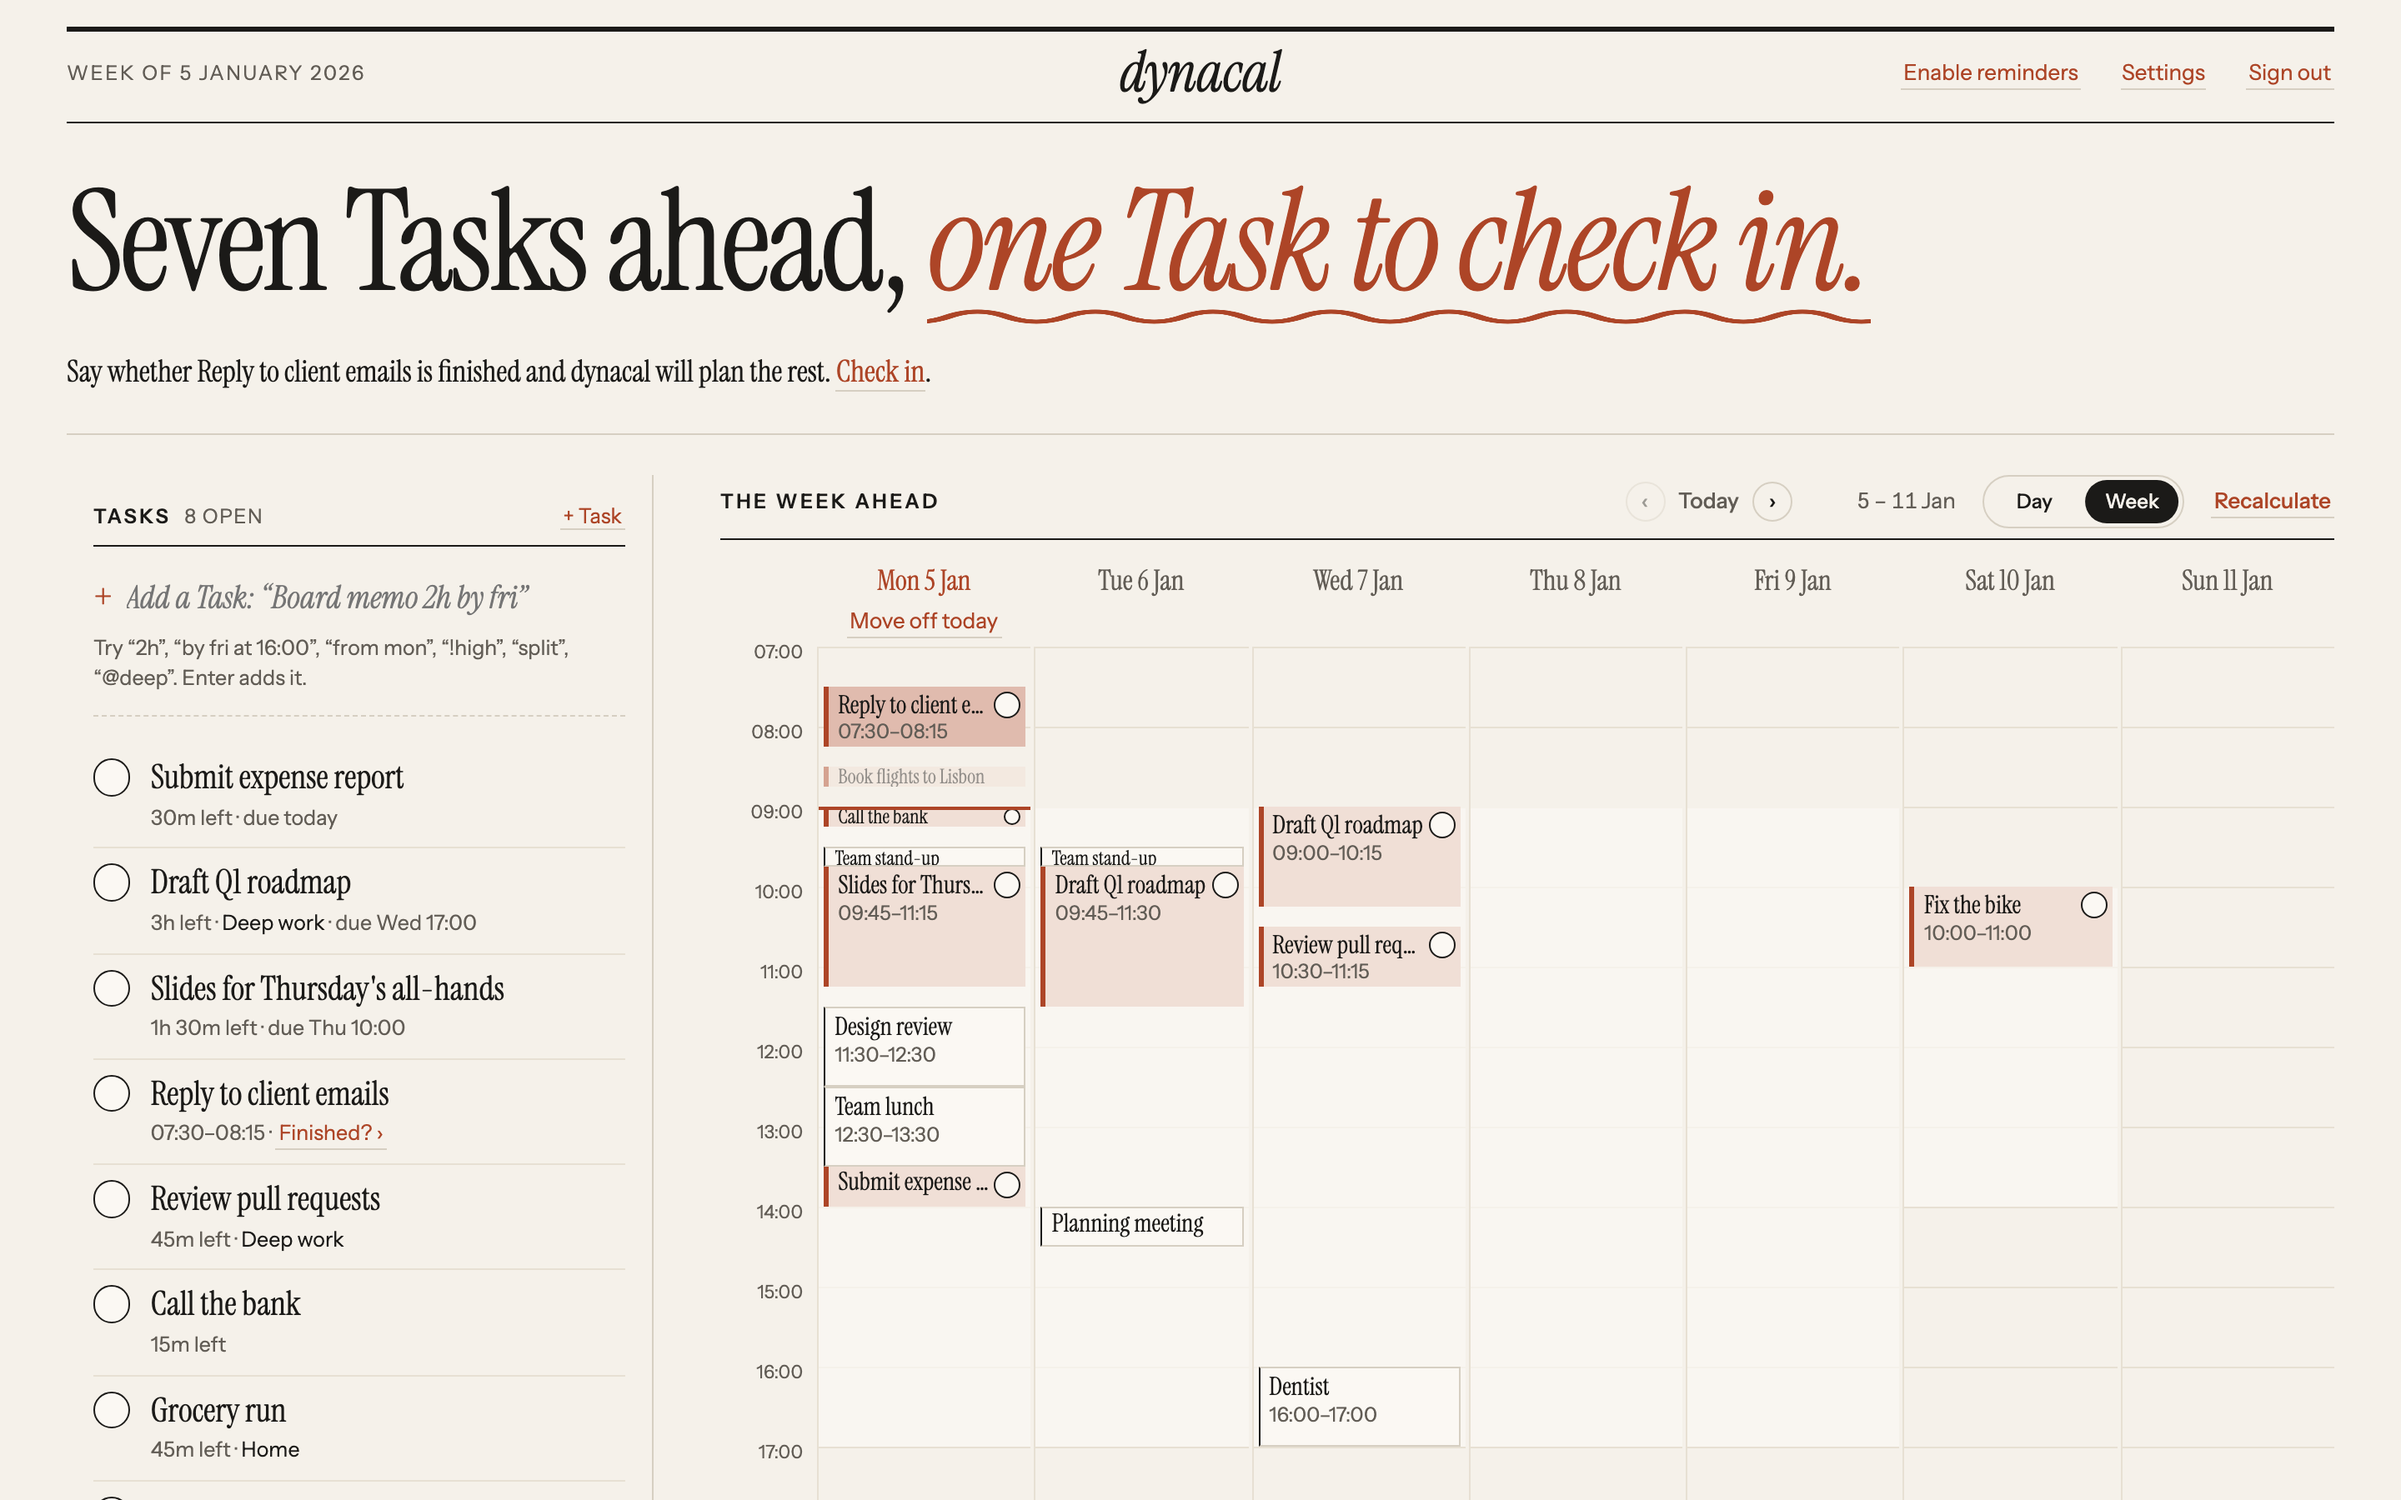
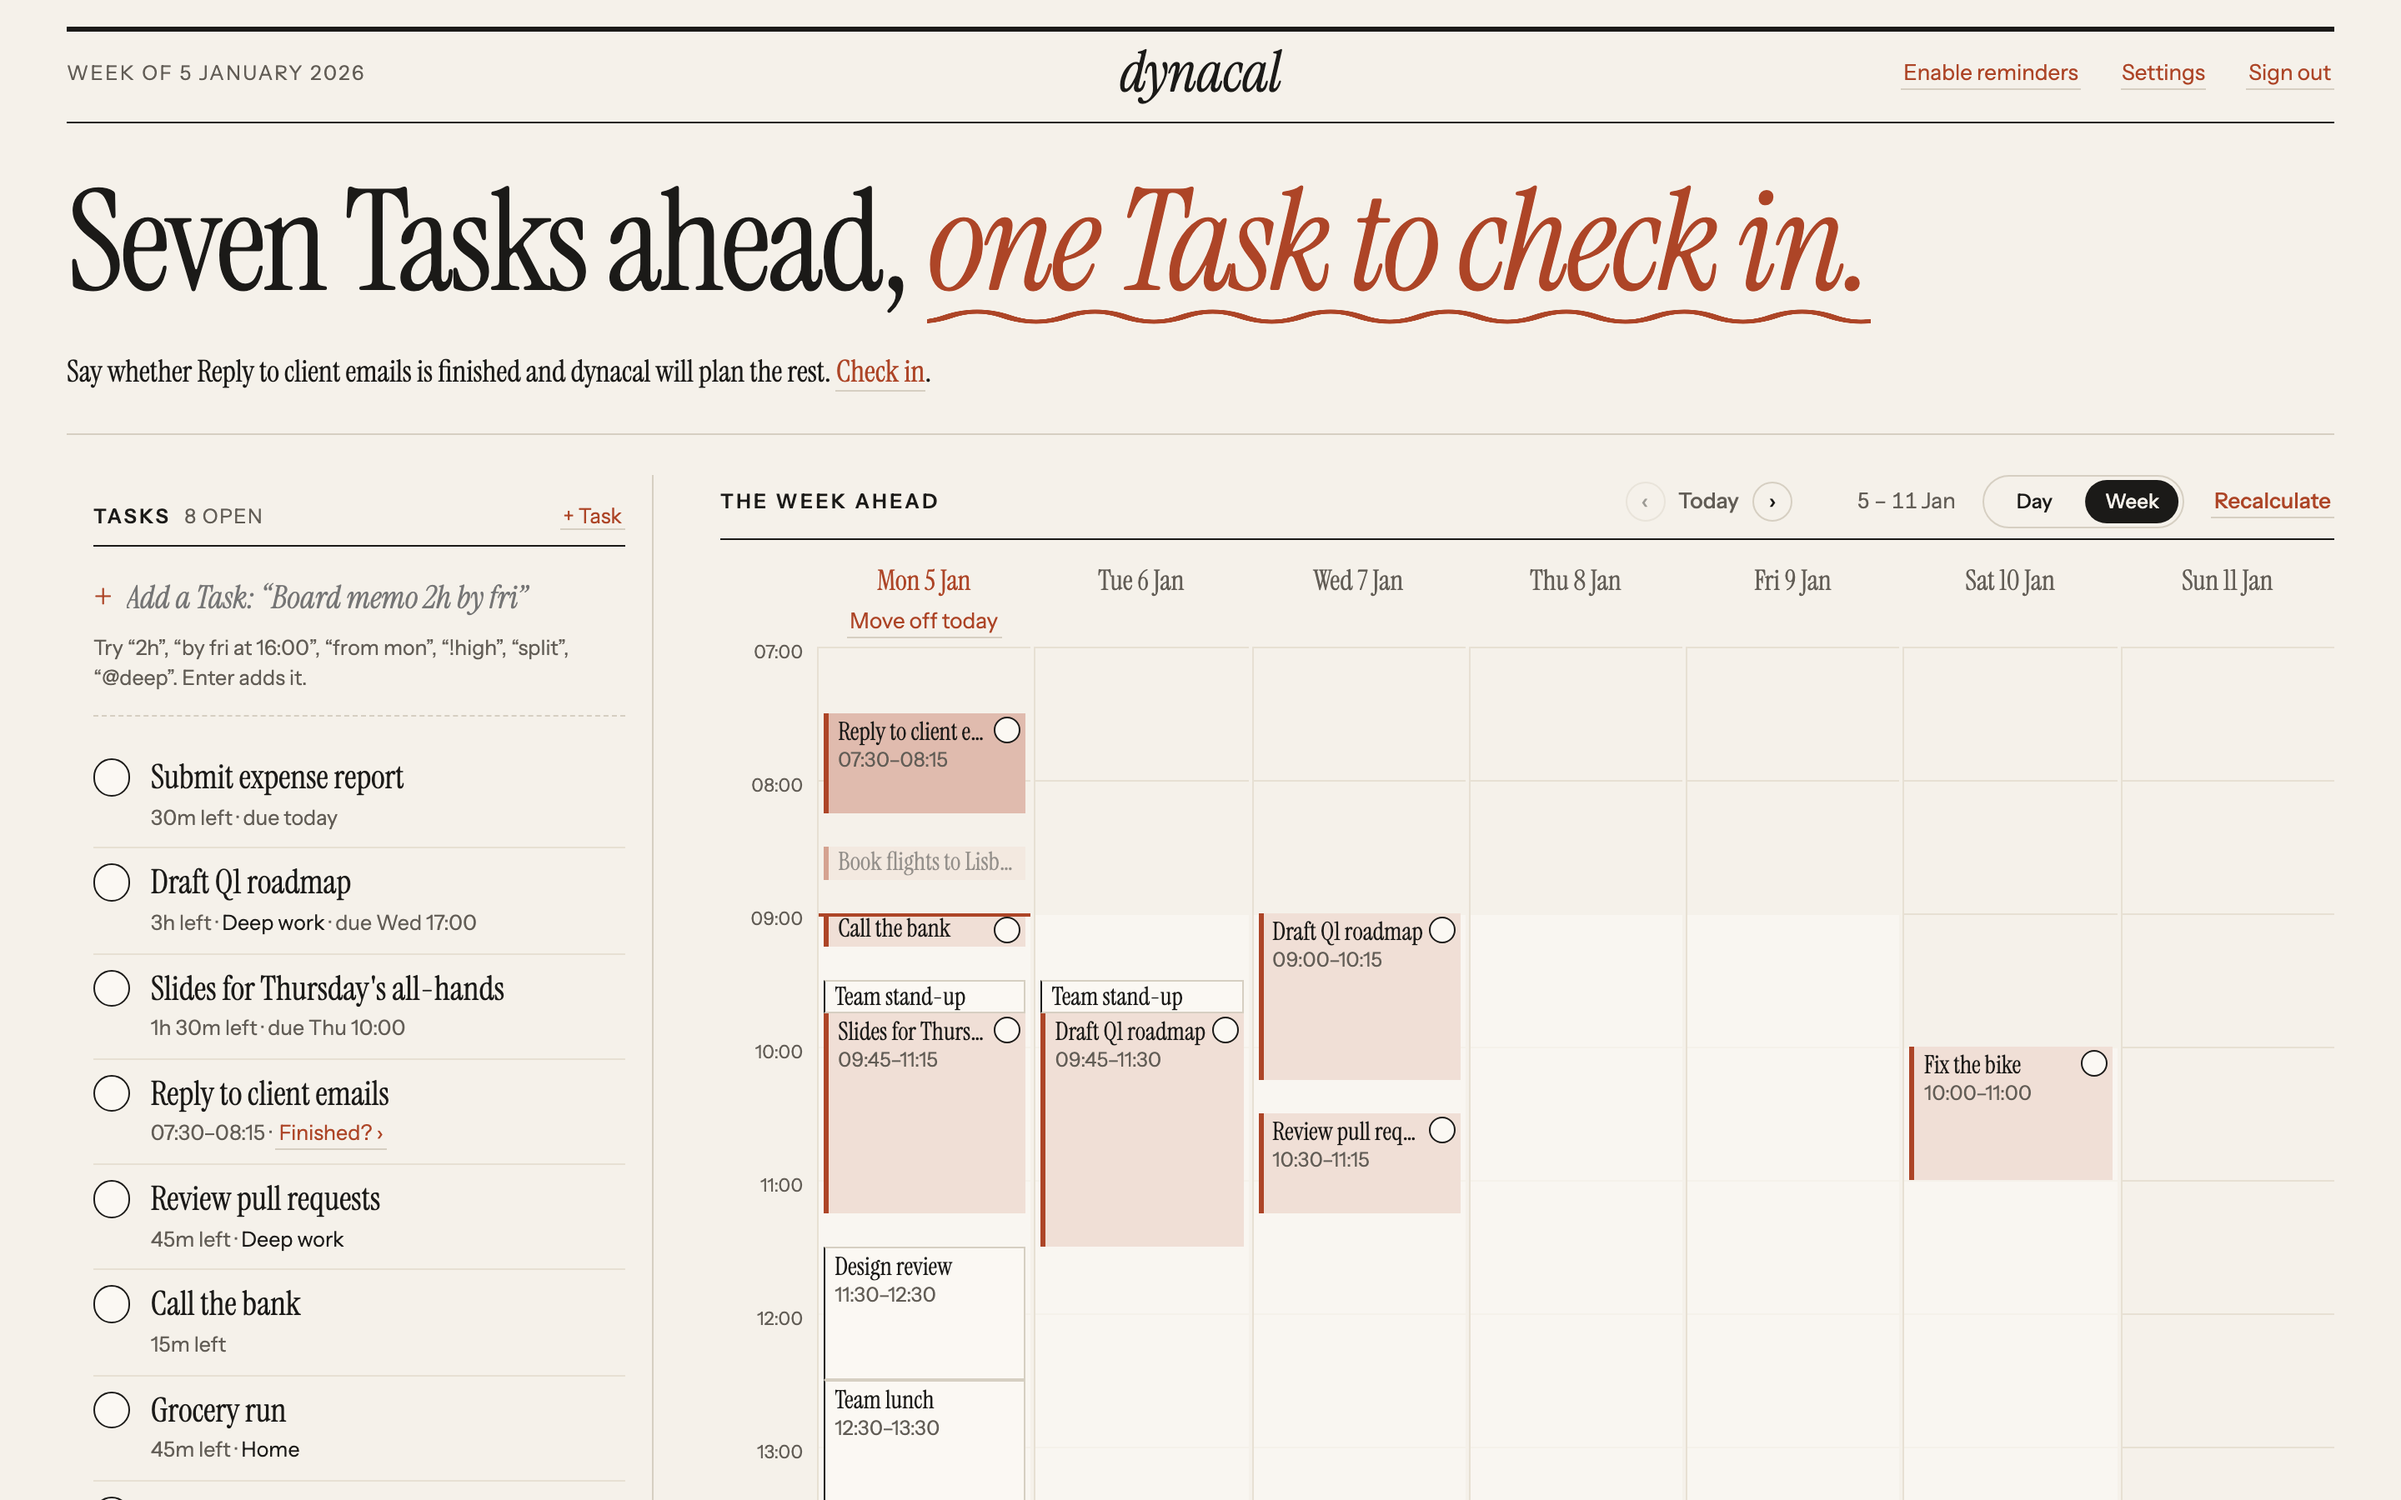
Make the computer Schedule's hours taller so 15-minute Tasks and Events fit their names at full size
- An hour is 80px, not 48px: a 15-minute Task or Event is 20px, enough for one
  full-size line, and a 30-minute one now shows its time under its name.
- The smaller-text treatment for short items is gone.
- Screenshots retaken.

diff --git a/browser-tests/calendar-layout.spec.ts b/browser-tests/calendar-layout.spec.ts
@@ -33,25 +33,39 @@ test("adds nothing when an empty spot on the calendar is clicked", async ({ brow
   });
 });
 
-test("gives a 30-minute Block's whole line to its title on desktop", async ({ browser }) => {
+test("gives a 15-minute Block's whole line to its title, at full size, on desktop", async ({ browser }) => {
   await withApp(browser, async (page) => {
-    await addTask(page, "Quick call with the agency about the Q4 plan 30m");
-    const block = page.getByRole("button", { name: /^Quick call with the agency about the Q4 plan, 09:00–09:30/ });
+    await addTask(page, "Quick call with the agency about the Q4 plan 15m");
+    const block = page.getByRole("button", { name: /^Quick call with the agency about the Q4 plan, 09:00–09:15/ });
     await expect(block).toBeVisible();
     await expectReadable(block, ".block-title");
+    expect(await block.locator(".block-title").evaluate((el) => getComputedStyle(el).fontSize)).toBe("15px");
     // Too short for two lines: the time is left to the grid position, the tooltip and the details label.
     await expect(block.locator(".block-time")).toHaveCount(0);
-    await expect(block).toHaveAttribute("title", /09:00–09:30/);
+    await expect(block).toHaveAttribute("title", /09:00–09:15/);
+    const check = await block.getByRole("button", { name: /^Mark/ }).boundingBox();
+    const outer = await block.boundingBox();
+    if (!check || !outer) throw new Error("Block has no check");
+    expect(check.y + check.height, "check inside the Block").toBeLessThanOrEqual(outer.y + outer.height + 0.5);
     // The title's text area runs right up to the round check, rather than stopping partway to make room for the
     // time. (Measure the area, not the text: a range reports an ellipsised title's full, unclipped width.)
     const titleRight = await block.locator(".block-title").evaluate((el) => {
       const style = getComputedStyle(el);
       return el.getBoundingClientRect().right - parseFloat(style.paddingRight) - parseFloat(style.borderRightWidth);
     });
-    const check = await block.getByRole("button", { name: /^Mark/ }).boundingBox();
-    if (!check) throw new Error("Block has no check");
     expect(titleRight, "title clear of the check").toBeLessThanOrEqual(check.x + 0.5);
     expect(titleRight, "title uses the line").toBeGreaterThan(check.x - 24);
+  });
+});
+
+test("keeps the title above the time on a 30-minute Block on desktop", async ({ browser }) => {
+  await withApp(browser, async (page) => {
+    await addTask(page, "Quick call 30m");
+    const block = page.getByRole("button", { name: /^Quick call, 09:00–09:30/ });
+    await expect(block).toBeVisible();
+    await expectReadable(block, ".block-title");
+    await expectReadable(block, ".block-time");
+    await expect(block.locator(".block-time")).toHaveText("09:00–09:30");
   });
 });
 

diff --git a/src/app/schedule/calendar.tsx b/src/app/schedule/calendar.tsx
@@ -62,14 +62,13 @@ export interface CalendarEvent {
 
 type View = "day" | "week";
 
-const HOUR_PX = 48;
+/** Tall enough that a 15-minute Task or Event (20px) fits its title at full size. */
+const HOUR_PX = 80;
 /**
  * Below this height a Block or Event can't fit its title above its time, so it shows only its title: the grid
  * position, the tooltip and the details label still give the time.
  */
 const TWO_LINE_PX = 36;
-/** Below this height (under about 25 minutes) even one title line at full size is cut off, so it's set smaller. */
-const ONE_LINE_PX = 20;
 
 /** Long enough for a landing's longest part, the drop's flash (--rise). */
 const LANDING_MS = 900;
@@ -630,12 +629,11 @@ export function Calendar({
                   `${event.title}, ${formatMinutes(top)}–${formatMinutes(bottom)} (Event${eventNotes(event)})`,
                 );
                 const compact = px(bottom) - px(top) < TWO_LINE_PX;
-                const tiny = px(bottom) - px(top) < ONE_LINE_PX;
                 return (
                   <div
                     key={`${event.id}-${day}`}
                     {...props}
-                    className={`event ${props.className}${compact ? " compact" : ""}${tiny ? " tiny" : ""}`}
+                    className={`event ${props.className}${compact ? " compact" : ""}`}
                     style={{ top: px(top), height: px(bottom) - px(top) }}
                   >
                     <span className="block-title">
@@ -662,7 +660,6 @@ export function Calendar({
                 const glide = glideOrder.get(block.displayKey);
                 const landed = landing?.id === block.id ? landing.kind : null;
                 const compact = px(bottom) - px(top) < TWO_LINE_PX;
-                const tiny = px(bottom) - px(top) < ONE_LINE_PX;
                 const classes = [
                   "block",
                   overEvent && detailStyles.besideEvent,
@@ -675,7 +672,6 @@ export function Calendar({
                   glide !== undefined && styles.glide,
                   completedTasks.has(block.taskId) && styles.done,
                   compact && "compact",
-                  tiny && "tiny",
                 ].filter(Boolean);
                 // Only a Block's first part carries its name: a name must be unique on the page.
                 const first = toZoned(new Date(block.start), timeZone).date === day;

diff --git a/browser-tests/block-moves.spec.ts b/browser-tests/block-moves.spec.ts
@@ -35,7 +35,7 @@ test("drags a Block on desktop and keeps the new time after reload", async ({ br
     if (!box) throw new Error("Block has no position");
     await page.mouse.move(box.x + box.width / 2, box.y + box.height / 2);
     await page.mouse.down();
-    await page.mouse.move(box.x + box.width / 2, box.y + box.height / 2 + 24, { steps: 6 });
+    await page.mouse.move(box.x + box.width / 2, box.y + box.height / 2 + 40, { steps: 6 });
     await page.mouse.up();
     await expect(page.getByText("Pinned at 09:30")).toBeVisible();
     await page.reload();
@@ -56,7 +56,7 @@ test("undoes a drag from its message", async ({ browser }) => {
     if (!box) throw new Error("Block has no position");
     await page.mouse.move(box.x + box.width / 2, box.y + box.height / 2);
     await page.mouse.down();
-    await page.mouse.move(box.x + box.width / 2, box.y + box.height / 2 + 24, { steps: 6 });
+    await page.mouse.move(box.x + box.width / 2, box.y + box.height / 2 + 40, { steps: 6 });
     await page.mouse.up();
     await expect(page.getByText("Pinned at 09:30.")).toBeVisible();
 

diff --git a/src/app/globals.css b/src/app/globals.css
@@ -493,26 +493,13 @@ input[type="checkbox"]:disabled {
 }
 
 /*
- * A Block or Event too short for two lines (under about 45 minutes) shows only its title, across the whole line.
+ * A Block or Event too short for two lines (under about 30 minutes) shows only its title, across the whole line.
  * Stacked with the time, the title shrank to a sliver; beside it, the title was cut to a few letters.
  */
 .block.compact,
 .event.compact {
   padding-top: 0.05rem;
   padding-bottom: 0;
-}
-
-/* Shorter still (a 15-minute Task or Event), the title is set smaller and centred in the height there is. */
-.block.tiny,
-.event.tiny {
-  justify-content: center;
-  padding-top: 0;
-}
-
-.block.tiny .block-title,
-.event.tiny .block-title {
-  font-size: var(--text-kicker);
-  line-height: 1;
 }
 
 /* Events: read-only busy time from Busy Calendars, drawn on card with a thin ink edge so they read differently from Blocks. */

diff --git a/src/app/schedule/pinning.module.css b/src/app/schedule/pinning.module.css
@@ -174,7 +174,7 @@
 /* The round check in the corner of a Block that hasn't ended: it completes the Block's Task. */
 .check {
   position: absolute;
-  top: 3px;
+  top: 2px; /* inside a 15-minute Block's 20px */
   right: 3px;
   z-index: 1;
   width: 16px;
@@ -250,20 +250,6 @@
   to {
     stroke-dashoffset: 0;
   }
-}
-
-/* In a Block too short for the full-size check, a smaller one is centred in its height. */
-:global(.tiny) > .check {
-  top: 50%;
-  width: 10px;
-  height: 10px;
-  margin-top: -5px;
-  border-width: 1px;
-}
-
-:global(.tiny) > .check svg {
-  width: 7px;
-  height: 7px;
 }
 
 /* A Block with a check leaves room for it beside its title. */
